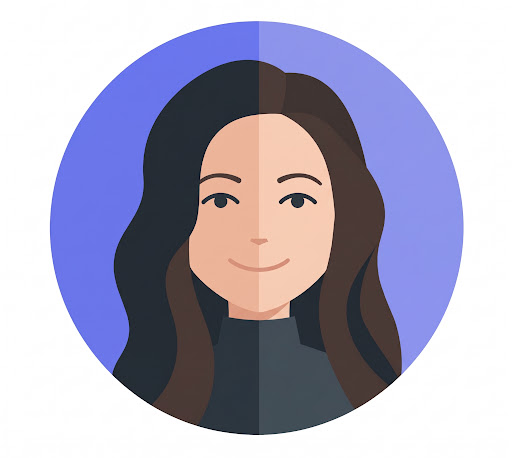
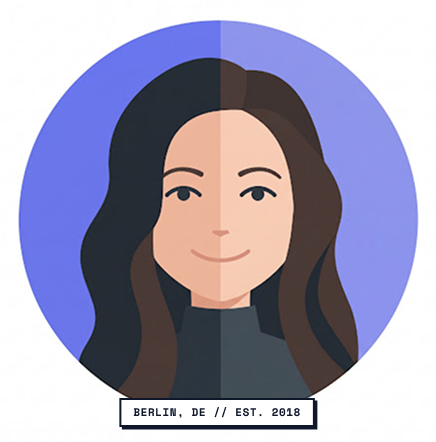
Replace the hero portrait with the new title image
New file from the user (436x442, transparent background, with the
BERLIN, DE // EST. 2018 label baked in). Image dimensions in the
markup updated to match, so the frame keeps the correct ratio.

diff --git a/index.html b/index.html
@@ -458,7 +458,7 @@ footer{background:var(--surface-paper);border-top:1px solid var(--border-tech);
       </div>
       <div class="hero-portrait corner-ticks">
         <div class="frame">
-          <img src="portrait-illustration.png" alt="Illustriertes Porträt von Isabel Bettinger" width="512" height="458">
+          <img src="portrait-illustration.png" alt="Illustriertes Porträt von Isabel Bettinger" width="436" height="442">
         </div>
       </div>
     </div>
